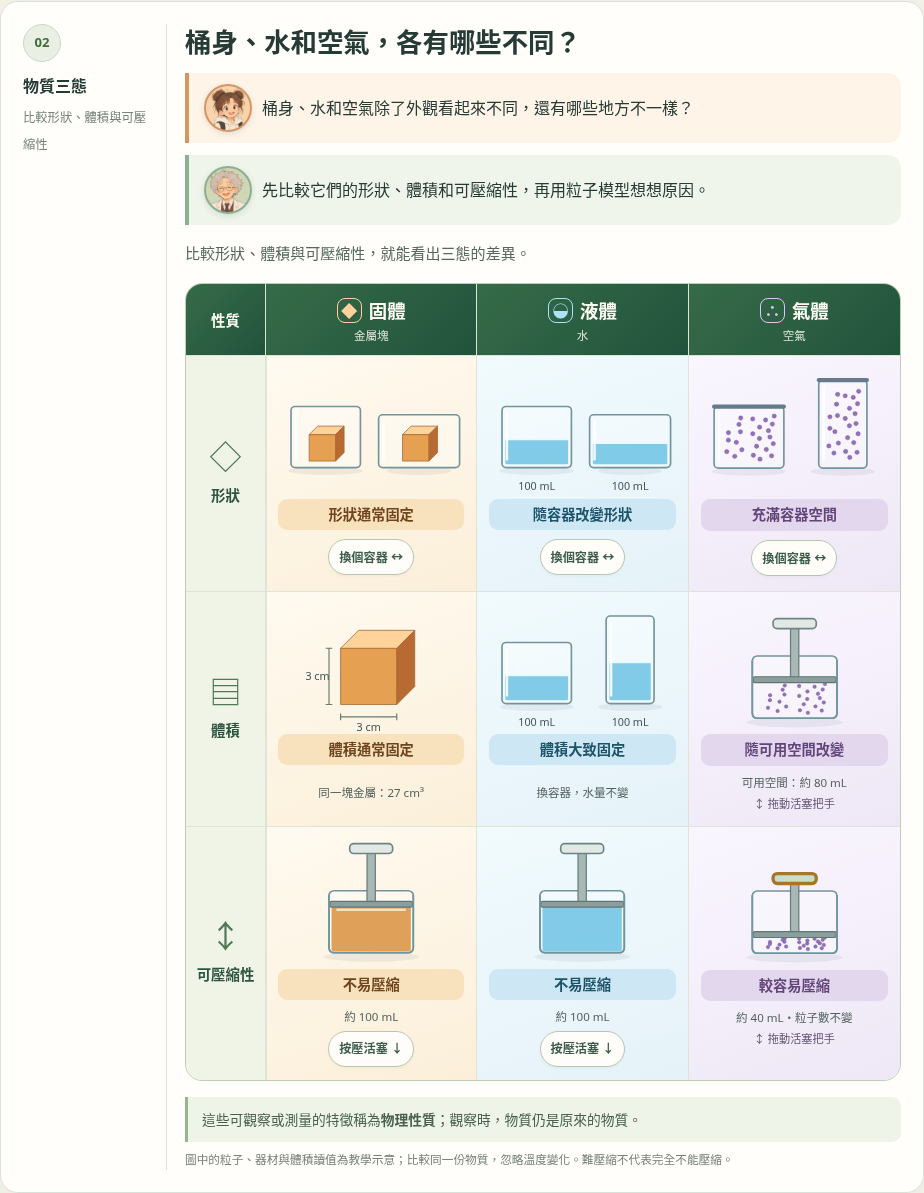
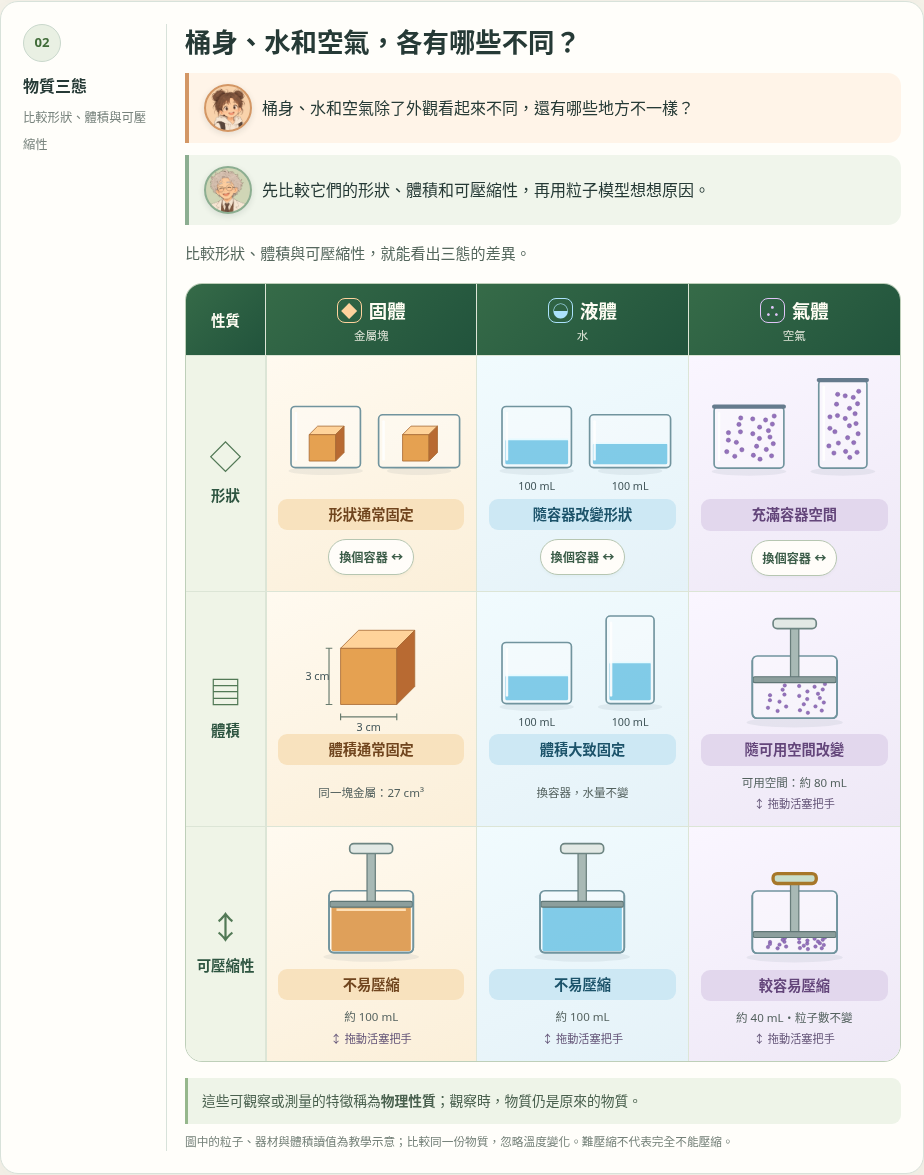
統一2.1三態活塞拖曳並固定固體與液體位置

diff --git a/units/2/parts/2.1/index.html b/units/2/parts/2.1/index.html
@@ -637,7 +637,7 @@
     #s2 button:focus-visible,#s2 a:focus-visible,#s2 input:focus-visible { outline-color:#79b89a; }
   </style>
   <link rel="stylesheet" href="assets/states-table.css?v=20261029">
-  <script src="assets/states-table.js?v=20261029" defer></script>
+  <script src="assets/states-table.js?v=20261029-drag" defer></script>
 </head>
 <body>
   <header class="shell masthead">
@@ -732,7 +732,7 @@
               <table class="states-visual-table">
                 <caption class="visually-hidden">固體、液體與氣體的形狀、體積及可壓縮性比較；所有圖解與結論直接可見。</caption>
                 <colgroup><col class="sv-property-col"><col><col><col></colgroup>
-                <thead><tr><th scope="col">性質</th><th scope="col" class="sv-solid"><span class="sv-state-icon" aria-hidden="true">◆</span><strong>固體</strong><small>金屬塊</small></th><th scope="col" class="sv-liquid"><span class="sv-state-icon" aria-hidden="true">◒</span><strong>液體</strong><small>水</small></th><th scope="col" class="sv-gas"><span class="sv-state-icon" aria-hidden="true">∴</span><strong>氣體</strong><small>空氣</small></th></tr></thead><tbody><tr><th scope="row"><span class="sv-property-icon" aria-hidden="true">◇</span>形狀</th><td class="sv-solid" data-visual-cell="solid.shape"><div class="sv-cell"><svg viewBox="0 0 240 160" role="img" aria-label="同一金屬塊放入兩種容器，形狀與大小保持相同" ><ellipse class="sv-shadow" cx="65" cy="127" rx="45" ry="5"/><ellipse class="sv-shadow" cx="178" cy="127" rx="39" ry="5"/><rect class="sv-glass" x="23.0" y="49" width="84" height="74" rx="5"/><g class="sv-cube"><path d="M45 83l32 0v32h-32z" fill="#e5a151"/><path d="M45 83l10.24 -10.24h32l-10.24 10.24z" fill="#ffd39a"/><path d="M77 83l10.24 -10.24v32l-10.24 10.24z" fill="#b86a32"/></g><path class="sv-highlight" d="M29.0 57v56"/><g data-vessel-changing="solid"><rect class="sv-glass" x="149.0" y="17" width="58" height="106" rx="5"/><g class="sv-cube"><path d="M158 83l32 0v32h-32z" fill="#e5a151"/><path d="M158 83l10.24 -10.24h32l-10.24 10.24z" fill="#ffd39a"/><path d="M190 83l10.24 -10.24v32l-10.24 10.24z" fill="#b86a32"/></g><path class="sv-highlight" d="M155.0 25v88"/></g></svg><strong class="sv-label">形狀通常固定</strong><div class="sv-controls"><button class="sv-action" type="button" data-change-vessel="solid">換個容器 <span aria-hidden="true">↔</span></button></div></div></td><td class="sv-liquid" data-visual-cell="liquid.shape"><div class="sv-cell"><svg viewBox="0 0 240 160" role="img" aria-label="同一份100毫升的水在寬杯水位較低，在窄杯水位較高" ><ellipse class="sv-shadow" cx="65" cy="127" rx="45" ry="5"/><ellipse class="sv-shadow" cx="178" cy="127" rx="39" ry="5"/><rect class="sv-glass" x="23.0" y="49" width="84" height="74" rx="5"/><rect class="sv-water" x="27.0" y="88.73684210526315" width="76" height="30.263157894736842" rx="2"/><path class="sv-surface" d="M27.0 88.73684210526315h76"/><path class="sv-highlight" d="M29.0 57v56"/><g data-vessel-changing="liquid"><rect class="sv-glass" x="149.0" y="17" width="58" height="106" rx="5"/><rect class="sv-water" x="153.0" y="73.0" width="50" height="46.0" rx="2"/><path class="sv-surface" d="M153.0 73.0h50"/><path class="sv-highlight" d="M155.0 25v88"/></g><text x="65" y="150" text-anchor="middle">100 mL</text><text x="178" y="150" text-anchor="middle">100 mL</text></svg><strong class="sv-label">隨容器改變形狀</strong><div class="sv-controls"><button class="sv-action" type="button" data-change-vessel="liquid">換個容器 <span aria-hidden="true">↔</span></button></div></div></td><td class="sv-gas" data-visual-cell="gas.shape"><div class="sv-cell"><svg viewBox="0 0 240 160" role="img" aria-label="同樣數量的氣體粒子分布於兩種密閉容器的整個空間" ><ellipse class="sv-shadow" cx="65" cy="127" rx="45" ry="5"/><ellipse class="sv-shadow" cx="178" cy="127" rx="39" ry="5"/><rect class="sv-glass" x="23.0" y="49" width="84" height="74" rx="5"/><path class="sv-highlight" d="M29.0 57v56"/><path class="sv-seal" d="M23.0 49h84"/><g data-shape-particles><circle class="sv-particle" cx="74.149" cy="96.632" r="2.6"/><circle class="sv-particle" cx="93.154" cy="69.968" r="2.6"/><circle class="sv-particle" cx="38.225" cy="103.118" r="2.6"/><circle class="sv-particle" cx="54.717" cy="79.262" r="2.6"/><circle class="sv-particle" cx="90.235" cy="85.532" r="2.6"/><circle class="sv-particle" cx="69.494" cy="63.758" r="2.6"/><circle class="sv-particle" cx="85.853" cy="100.508" r="2.6"/><circle class="sv-particle" cx="95.352" cy="60.242" r="2.6"/><circle class="sv-particle" cx="94.225" cy="93.536" r="2.6"/><circle class="sv-particle" cx="49.782" cy="91.940" r="2.6"/><circle class="sv-particle" cx="77.579" cy="87.278" r="2.6"/><circle class="sv-particle" cx="40.283" cy="80.294" r="2.6"/><circle class="sv-particle" cx="77.782" cy="73.598" r="2.6"/><circle class="sv-particle" cx="69.564" cy="81.554" r="2.6"/><circle class="sv-particle" cx="56.432" cy="100.862" r="2.6"/><circle class="sv-particle" cx="55.046" cy="62.618" r="2.6"/><circle class="sv-particle" cx="70.285" cy="107.486" r="2.6"/><circle class="sv-particle" cx="40.178" cy="89.282" r="2.6"/><circle class="sv-particle" cx="88.408" cy="77.810" r="2.6"/><circle class="sv-particle" cx="84.985" cy="65.012" r="2.6"/><circle class="sv-particle" cx="52.925" cy="70.346" r="2.6"/><circle class="sv-particle" cx="78.272" cy="112.166" r="2.6"/><circle class="sv-particle" cx="92.181" cy="108.158" r="2.6"/><circle class="sv-particle" cx="47.871" cy="108.704" r="2.6"/></g><g data-vessel-changing="gas"><rect class="sv-glass" x="149.0" y="17" width="58" height="106" rx="5"/><path class="sv-highlight" d="M155.0 25v88"/><path class="sv-seal" d="M149.0 17h58"/><g data-shape-particles><circle class="sv-particle" cx="183.751" cy="86.302" r="2.6"/><circle class="sv-particle" cx="195.697" cy="45.418" r="2.6"/><circle class="sv-particle" cx="161.170" cy="96.248" r="2.6"/><circle class="sv-particle" cx="171.536" cy="59.668" r="2.6"/><circle class="sv-particle" cx="193.862" cy="69.282" r="2.6"/><circle class="sv-particle" cx="180.825" cy="35.896" r="2.6"/><circle class="sv-particle" cx="191.108" cy="92.246" r="2.6"/><circle class="sv-particle" cx="197.078" cy="30.504" r="2.6"/><circle class="sv-particle" cx="196.370" cy="81.555" r="2.6"/><circle class="sv-particle" cx="168.434" cy="79.108" r="2.6"/><circle class="sv-particle" cx="185.907" cy="71.960" r="2.6"/><circle class="sv-particle" cx="162.464" cy="61.251" r="2.6"/><circle class="sv-particle" cx="186.034" cy="50.984" r="2.6"/><circle class="sv-particle" cx="180.869" cy="63.183" r="2.6"/><circle class="sv-particle" cx="172.614" cy="92.788" r="2.6"/><circle class="sv-particle" cx="171.743" cy="34.148" r="2.6"/><circle class="sv-particle" cx="181.322" cy="102.945" r="2.6"/><circle class="sv-particle" cx="162.398" cy="75.032" r="2.6"/><circle class="sv-particle" cx="192.714" cy="57.442" r="2.6"/><circle class="sv-particle" cx="190.562" cy="37.818" r="2.6"/><circle class="sv-particle" cx="170.410" cy="45.997" r="2.6"/><circle class="sv-particle" cx="186.342" cy="110.121" r="2.6"/><circle class="sv-particle" cx="195.085" cy="103.976" r="2.6"/><circle class="sv-particle" cx="167.233" cy="104.813" r="2.6"/></g></g></svg><strong class="sv-label">充滿容器空間</strong><div class="sv-controls"><button class="sv-action" type="button" data-change-vessel="gas">換個容器 <span aria-hidden="true">↔</span></button></div></div></td></tr><tr><th scope="row"><span class="sv-property-icon" aria-hidden="true">▤</span>體積</th><td class="sv-solid" data-visual-cell="solid.volume"><div class="sv-cell"><svg viewBox="0 0 240 160" role="img" aria-label="金屬塊長寬高皆為3公分，體積27立方公分" ><g class="sv-cube"><path d="M83 56l68 0v68h-68z" fill="#e5a151"/><path d="M83 56l21.76 -21.76h68l-21.76 21.76z" fill="#ffd39a"/><path d="M151 56l21.76 -21.76v68l-21.76 21.76z" fill="#b86a32"/></g><path class="sv-dimension" d="M69 56v68m-4-68h8m-8 68h8M83 139h68m-68-4v8m68-8v8"/><text x="55" y="94" text-anchor="middle">3 cm</text><text x="117" y="156" text-anchor="middle">3 cm</text></svg><strong class="sv-label">體積通常固定</strong><div class="sv-controls"><span class="sv-value">同一塊金屬：27 cm³</span></div></div></td><td class="sv-liquid" data-visual-cell="liquid.volume"><div class="sv-cell"><svg viewBox="0 0 240 160" role="img" aria-label="同一份100毫升的水在寬杯水位較低，在窄杯水位較高" ><ellipse class="sv-shadow" cx="65" cy="127" rx="45" ry="5"/><ellipse class="sv-shadow" cx="178" cy="127" rx="39" ry="5"/><rect class="sv-glass" x="23.0" y="49" width="84" height="74" rx="5"/><rect class="sv-water" x="27.0" y="88.73684210526315" width="76" height="30.263157894736842" rx="2"/><path class="sv-surface" d="M27.0 88.73684210526315h76"/><path class="sv-highlight" d="M29.0 57v56"/><g data-vessel-static="liquid"><rect class="sv-glass" x="149.0" y="17" width="58" height="106" rx="5"/><rect class="sv-water" x="153.0" y="73.0" width="50" height="46.0" rx="2"/><path class="sv-surface" d="M153.0 73.0h50"/><path class="sv-highlight" d="M155.0 25v88"/></g><text x="65" y="150" text-anchor="middle">100 mL</text><text x="178" y="150" text-anchor="middle">100 mL</text></svg><strong class="sv-label">體積大致固定</strong><div class="sv-controls"><span class="sv-value">換容器，水量不變</span></div></div></td><td class="sv-gas" data-visual-cell="gas.volume"><div class="sv-cell"><svg viewBox="0 0 240 160" role="img" aria-label="密閉氣缸的活塞可推拉，同一批24個粒子的可用空間隨之改變" data-piston="gas-volume" data-kind="gas" data-mode="volume"><ellipse class="sv-shadow" cx="120" cy="145" rx="58" ry="6"/><rect class="sv-glass" x="69" y="65" width="102" height="75" rx="6"/><g data-piston-fill><g data-piston-particles><circle class="sv-particle" cx="83" cy="111.875" r="2.8"/><circle class="sv-particle" cx="98" cy="111.875" r="2.8"/><circle class="sv-particle" cx="113" cy="111.875" r="2.8"/><circle class="sv-particle" cx="128" cy="111.875" r="2.8"/><circle class="sv-particle" cx="143" cy="111.875" r="2.8"/><circle class="sv-particle" cx="158" cy="111.875" r="2.8"/><circle class="sv-particle" cx="83" cy="117.625" r="2.8"/><circle class="sv-particle" cx="98" cy="117.625" r="2.8"/><circle class="sv-particle" cx="113" cy="117.625" r="2.8"/><circle class="sv-particle" cx="128" cy="117.625" r="2.8"/><circle class="sv-particle" cx="143" cy="117.625" r="2.8"/><circle class="sv-particle" cx="158" cy="117.625" r="2.8"/><circle class="sv-particle" cx="83" cy="123.375" r="2.8"/><circle class="sv-particle" cx="98" cy="123.375" r="2.8"/><circle class="sv-particle" cx="113" cy="123.375" r="2.8"/><circle class="sv-particle" cx="128" cy="123.375" r="2.8"/><circle class="sv-particle" cx="143" cy="123.375" r="2.8"/><circle class="sv-particle" cx="158" cy="123.375" r="2.8"/><circle class="sv-particle" cx="83" cy="129.125" r="2.8"/><circle class="sv-particle" cx="98" cy="129.125" r="2.8"/><circle class="sv-particle" cx="113" cy="129.125" r="2.8"/><circle class="sv-particle" cx="128" cy="129.125" r="2.8"/><circle class="sv-particle" cx="143" cy="129.125" r="2.8"/><circle class="sv-particle" cx="158" cy="129.125" r="2.8"/></g></g><g data-piston-handle role="slider" tabindex="0" aria-label="氣體體積活塞" aria-valuemin="0" aria-valuemax="100" aria-valuenow="33" aria-orientation="vertical" transform="translate(0 100)"><rect class="sv-rod" x="115" y="-66" width="10" height="68" rx="3"/><rect class="sv-grip" x="94" y="-72" width="52" height="12" rx="5"/><rect class="sv-piston-face" x="70" y="-2" width="100" height="7" rx="2"/><rect class="sv-hit" x="78" y="-79" width="84" height="88" fill="transparent"/></g><path class="sv-front" d="M69 70v64q0 6 6 6h90q6 0 6-6V70"/></svg><strong class="sv-label">隨可用空間改變</strong><div class="sv-controls"><output class="sv-value" data-piston-readout="gas-volume">可用空間：約 67 mL</output><span class="sv-gesture">↕ 拖動活塞把手</span></div></div></td></tr><tr><th scope="row"><span class="sv-property-icon" aria-hidden="true">↕</span>可壓縮性</th><td class="sv-solid" data-visual-cell="solid.compress"><div class="sv-cell"><svg viewBox="0 0 240 160" role="img" aria-label="密閉活塞中的金屬塊，一般施力時體積幾乎不變" data-piston="solid-compress" data-kind="solid" data-mode="compress"><ellipse class="sv-shadow" cx="120" cy="145" rx="58" ry="6"/><rect class="sv-glass" x="69" y="65" width="102" height="75" rx="6"/><rect data-piston-fill x="72" y="82" width="96" height="56" rx="2" fill="#dfa05a"/><path d="M78 88h84" stroke="#ffdfb4" stroke-width="3"/><g data-piston-handle role="slider" tabindex="0" aria-label="固體壓縮活塞" aria-valuemin="0" aria-valuemax="100" aria-valuenow="0" aria-orientation="vertical" transform="translate(0 80)"><rect class="sv-rod" x="115" y="-66" width="10" height="68" rx="3"/><rect class="sv-grip" x="94" y="-72" width="52" height="12" rx="5"/><rect class="sv-piston-face" x="70" y="-2" width="100" height="7" rx="2"/><rect class="sv-hit" x="78" y="-79" width="84" height="88" fill="transparent"/></g><path class="sv-front" d="M69 70v64q0 6 6 6h90q6 0 6-6V70"/></svg><strong class="sv-label">不易壓縮</strong><div class="sv-controls"><output class="sv-value" data-piston-readout="solid-compress">約 100 mL</output><button class="sv-action" type="button" data-press="solid" aria-pressed="false">按壓活塞 ↓</button></div></div></td><td class="sv-liquid" data-visual-cell="liquid.compress"><div class="sv-cell"><svg viewBox="0 0 240 160" role="img" aria-label="完全充水且沒有氣泡的密閉活塞，施力後水的體積幾乎不變" data-piston="liquid-compress" data-kind="liquid" data-mode="compress"><ellipse class="sv-shadow" cx="120" cy="145" rx="58" ry="6"/><rect class="sv-glass" x="69" y="65" width="102" height="75" rx="6"/><rect class="sv-water" data-piston-fill x="72" y="82" width="96" height="56" rx="2"/><g data-piston-handle role="slider" tabindex="0" aria-label="液體壓縮活塞" aria-valuemin="0" aria-valuemax="100" aria-valuenow="0" aria-orientation="vertical" transform="translate(0 80)"><rect class="sv-rod" x="115" y="-66" width="10" height="68" rx="3"/><rect class="sv-grip" x="94" y="-72" width="52" height="12" rx="5"/><rect class="sv-piston-face" x="70" y="-2" width="100" height="7" rx="2"/><rect class="sv-hit" x="78" y="-79" width="84" height="88" fill="transparent"/></g><path class="sv-front" d="M69 70v64q0 6 6 6h90q6 0 6-6V70"/></svg><strong class="sv-label">不易壓縮</strong><div class="sv-controls"><output class="sv-value" data-piston-readout="liquid-compress">約 100 mL</output><button class="sv-action" type="button" data-press="liquid" aria-pressed="false">按壓活塞 ↓</button></div></div></td><td class="sv-gas" data-visual-cell="gas.compress"><div class="sv-cell"><svg viewBox="0 0 240 160" role="img" aria-label="密閉氣缸的活塞可推拉，同一批24個粒子的可用空間隨之改變" data-piston="gas-compress" data-kind="gas" data-mode="compress"><ellipse class="sv-shadow" cx="120" cy="145" rx="58" ry="6"/><rect class="sv-glass" x="69" y="65" width="102" height="75" rx="6"/><g data-piston-fill><g data-piston-particles><circle class="sv-particle" cx="83" cy="94.375" r="2.8"/><circle class="sv-particle" cx="98" cy="94.375" r="2.8"/><circle class="sv-particle" cx="113" cy="94.375" r="2.8"/><circle class="sv-particle" cx="128" cy="94.375" r="2.8"/><circle class="sv-particle" cx="143" cy="94.375" r="2.8"/><circle class="sv-particle" cx="158" cy="94.375" r="2.8"/><circle class="sv-particle" cx="83" cy="105.125" r="2.8"/><circle class="sv-particle" cx="98" cy="105.125" r="2.8"/><circle class="sv-particle" cx="113" cy="105.125" r="2.8"/><circle class="sv-particle" cx="128" cy="105.125" r="2.8"/><circle class="sv-particle" cx="143" cy="105.125" r="2.8"/><circle class="sv-particle" cx="158" cy="105.125" r="2.8"/><circle class="sv-particle" cx="83" cy="115.875" r="2.8"/><circle class="sv-particle" cx="98" cy="115.875" r="2.8"/><circle class="sv-particle" cx="113" cy="115.875" r="2.8"/><circle class="sv-particle" cx="128" cy="115.875" r="2.8"/><circle class="sv-particle" cx="143" cy="115.875" r="2.8"/><circle class="sv-particle" cx="158" cy="115.875" r="2.8"/><circle class="sv-particle" cx="83" cy="126.625" r="2.8"/><circle class="sv-particle" cx="98" cy="126.625" r="2.8"/><circle class="sv-particle" cx="113" cy="126.625" r="2.8"/><circle class="sv-particle" cx="128" cy="126.625" r="2.8"/><circle class="sv-particle" cx="143" cy="126.625" r="2.8"/><circle class="sv-particle" cx="158" cy="126.625" r="2.8"/></g></g><g data-piston-handle role="slider" tabindex="0" aria-label="氣體壓縮活塞" aria-valuemin="0" aria-valuemax="100" aria-valuenow="0" aria-orientation="vertical" transform="translate(0 80)"><rect class="sv-rod" x="115" y="-66" width="10" height="68" rx="3"/><rect class="sv-grip" x="94" y="-72" width="52" height="12" rx="5"/><rect class="sv-piston-face" x="70" y="-2" width="100" height="7" rx="2"/><rect class="sv-hit" x="78" y="-79" width="84" height="88" fill="transparent"/></g><path class="sv-front" d="M69 70v64q0 6 6 6h90q6 0 6-6V70"/></svg><strong class="sv-label">較容易壓縮</strong><div class="sv-controls"><output class="sv-value" data-piston-readout="gas-compress">約 100 mL</output><span class="sv-gesture">↕ 拖動活塞把手</span></div></div></td></tr></tbody></table>
+                <thead><tr><th scope="col">性質</th><th scope="col" class="sv-solid"><span class="sv-state-icon" aria-hidden="true">◆</span><strong>固體</strong><small>金屬塊</small></th><th scope="col" class="sv-liquid"><span class="sv-state-icon" aria-hidden="true">◒</span><strong>液體</strong><small>水</small></th><th scope="col" class="sv-gas"><span class="sv-state-icon" aria-hidden="true">∴</span><strong>氣體</strong><small>空氣</small></th></tr></thead><tbody><tr><th scope="row"><span class="sv-property-icon" aria-hidden="true">◇</span>形狀</th><td class="sv-solid" data-visual-cell="solid.shape"><div class="sv-cell"><svg viewBox="0 0 240 160" role="img" aria-label="同一金屬塊放入兩種容器，形狀與大小保持相同" ><ellipse class="sv-shadow" cx="65" cy="127" rx="45" ry="5"/><ellipse class="sv-shadow" cx="178" cy="127" rx="39" ry="5"/><rect class="sv-glass" x="23.0" y="49" width="84" height="74" rx="5"/><g class="sv-cube"><path d="M45 83l32 0v32h-32z" fill="#e5a151"/><path d="M45 83l10.24 -10.24h32l-10.24 10.24z" fill="#ffd39a"/><path d="M77 83l10.24 -10.24v32l-10.24 10.24z" fill="#b86a32"/></g><path class="sv-highlight" d="M29.0 57v56"/><g data-vessel-changing="solid"><rect class="sv-glass" x="149.0" y="17" width="58" height="106" rx="5"/><g class="sv-cube"><path d="M158 83l32 0v32h-32z" fill="#e5a151"/><path d="M158 83l10.24 -10.24h32l-10.24 10.24z" fill="#ffd39a"/><path d="M190 83l10.24 -10.24v32l-10.24 10.24z" fill="#b86a32"/></g><path class="sv-highlight" d="M155.0 25v88"/></g></svg><strong class="sv-label">形狀通常固定</strong><div class="sv-controls"><button class="sv-action" type="button" data-change-vessel="solid">換個容器 <span aria-hidden="true">↔</span></button></div></div></td><td class="sv-liquid" data-visual-cell="liquid.shape"><div class="sv-cell"><svg viewBox="0 0 240 160" role="img" aria-label="同一份100毫升的水在寬杯水位較低，在窄杯水位較高" ><ellipse class="sv-shadow" cx="65" cy="127" rx="45" ry="5"/><ellipse class="sv-shadow" cx="178" cy="127" rx="39" ry="5"/><rect class="sv-glass" x="23.0" y="49" width="84" height="74" rx="5"/><rect class="sv-water" x="27.0" y="88.73684210526315" width="76" height="30.263157894736842" rx="2"/><path class="sv-surface" d="M27.0 88.73684210526315h76"/><path class="sv-highlight" d="M29.0 57v56"/><g data-vessel-changing="liquid"><rect class="sv-glass" x="149.0" y="17" width="58" height="106" rx="5"/><rect class="sv-water" x="153.0" y="73.0" width="50" height="46.0" rx="2"/><path class="sv-surface" d="M153.0 73.0h50"/><path class="sv-highlight" d="M155.0 25v88"/></g><text x="65" y="150" text-anchor="middle">100 mL</text><text x="178" y="150" text-anchor="middle">100 mL</text></svg><strong class="sv-label">隨容器改變形狀</strong><div class="sv-controls"><button class="sv-action" type="button" data-change-vessel="liquid">換個容器 <span aria-hidden="true">↔</span></button></div></div></td><td class="sv-gas" data-visual-cell="gas.shape"><div class="sv-cell"><svg viewBox="0 0 240 160" role="img" aria-label="同樣數量的氣體粒子分布於兩種密閉容器的整個空間" ><ellipse class="sv-shadow" cx="65" cy="127" rx="45" ry="5"/><ellipse class="sv-shadow" cx="178" cy="127" rx="39" ry="5"/><rect class="sv-glass" x="23.0" y="49" width="84" height="74" rx="5"/><path class="sv-highlight" d="M29.0 57v56"/><path class="sv-seal" d="M23.0 49h84"/><g data-shape-particles><circle class="sv-particle" cx="74.149" cy="96.632" r="2.6"/><circle class="sv-particle" cx="93.154" cy="69.968" r="2.6"/><circle class="sv-particle" cx="38.225" cy="103.118" r="2.6"/><circle class="sv-particle" cx="54.717" cy="79.262" r="2.6"/><circle class="sv-particle" cx="90.235" cy="85.532" r="2.6"/><circle class="sv-particle" cx="69.494" cy="63.758" r="2.6"/><circle class="sv-particle" cx="85.853" cy="100.508" r="2.6"/><circle class="sv-particle" cx="95.352" cy="60.242" r="2.6"/><circle class="sv-particle" cx="94.225" cy="93.536" r="2.6"/><circle class="sv-particle" cx="49.782" cy="91.940" r="2.6"/><circle class="sv-particle" cx="77.579" cy="87.278" r="2.6"/><circle class="sv-particle" cx="40.283" cy="80.294" r="2.6"/><circle class="sv-particle" cx="77.782" cy="73.598" r="2.6"/><circle class="sv-particle" cx="69.564" cy="81.554" r="2.6"/><circle class="sv-particle" cx="56.432" cy="100.862" r="2.6"/><circle class="sv-particle" cx="55.046" cy="62.618" r="2.6"/><circle class="sv-particle" cx="70.285" cy="107.486" r="2.6"/><circle class="sv-particle" cx="40.178" cy="89.282" r="2.6"/><circle class="sv-particle" cx="88.408" cy="77.810" r="2.6"/><circle class="sv-particle" cx="84.985" cy="65.012" r="2.6"/><circle class="sv-particle" cx="52.925" cy="70.346" r="2.6"/><circle class="sv-particle" cx="78.272" cy="112.166" r="2.6"/><circle class="sv-particle" cx="92.181" cy="108.158" r="2.6"/><circle class="sv-particle" cx="47.871" cy="108.704" r="2.6"/></g><g data-vessel-changing="gas"><rect class="sv-glass" x="149.0" y="17" width="58" height="106" rx="5"/><path class="sv-highlight" d="M155.0 25v88"/><path class="sv-seal" d="M149.0 17h58"/><g data-shape-particles><circle class="sv-particle" cx="183.751" cy="86.302" r="2.6"/><circle class="sv-particle" cx="195.697" cy="45.418" r="2.6"/><circle class="sv-particle" cx="161.170" cy="96.248" r="2.6"/><circle class="sv-particle" cx="171.536" cy="59.668" r="2.6"/><circle class="sv-particle" cx="193.862" cy="69.282" r="2.6"/><circle class="sv-particle" cx="180.825" cy="35.896" r="2.6"/><circle class="sv-particle" cx="191.108" cy="92.246" r="2.6"/><circle class="sv-particle" cx="197.078" cy="30.504" r="2.6"/><circle class="sv-particle" cx="196.370" cy="81.555" r="2.6"/><circle class="sv-particle" cx="168.434" cy="79.108" r="2.6"/><circle class="sv-particle" cx="185.907" cy="71.960" r="2.6"/><circle class="sv-particle" cx="162.464" cy="61.251" r="2.6"/><circle class="sv-particle" cx="186.034" cy="50.984" r="2.6"/><circle class="sv-particle" cx="180.869" cy="63.183" r="2.6"/><circle class="sv-particle" cx="172.614" cy="92.788" r="2.6"/><circle class="sv-particle" cx="171.743" cy="34.148" r="2.6"/><circle class="sv-particle" cx="181.322" cy="102.945" r="2.6"/><circle class="sv-particle" cx="162.398" cy="75.032" r="2.6"/><circle class="sv-particle" cx="192.714" cy="57.442" r="2.6"/><circle class="sv-particle" cx="190.562" cy="37.818" r="2.6"/><circle class="sv-particle" cx="170.410" cy="45.997" r="2.6"/><circle class="sv-particle" cx="186.342" cy="110.121" r="2.6"/><circle class="sv-particle" cx="195.085" cy="103.976" r="2.6"/><circle class="sv-particle" cx="167.233" cy="104.813" r="2.6"/></g></g></svg><strong class="sv-label">充滿容器空間</strong><div class="sv-controls"><button class="sv-action" type="button" data-change-vessel="gas">換個容器 <span aria-hidden="true">↔</span></button></div></div></td></tr><tr><th scope="row"><span class="sv-property-icon" aria-hidden="true">▤</span>體積</th><td class="sv-solid" data-visual-cell="solid.volume"><div class="sv-cell"><svg viewBox="0 0 240 160" role="img" aria-label="金屬塊長寬高皆為3公分，體積27立方公分" ><g class="sv-cube"><path d="M83 56l68 0v68h-68z" fill="#e5a151"/><path d="M83 56l21.76 -21.76h68l-21.76 21.76z" fill="#ffd39a"/><path d="M151 56l21.76 -21.76v68l-21.76 21.76z" fill="#b86a32"/></g><path class="sv-dimension" d="M69 56v68m-4-68h8m-8 68h8M83 139h68m-68-4v8m68-8v8"/><text x="55" y="94" text-anchor="middle">3 cm</text><text x="117" y="156" text-anchor="middle">3 cm</text></svg><strong class="sv-label">體積通常固定</strong><div class="sv-controls"><span class="sv-value">同一塊金屬：27 cm³</span></div></div></td><td class="sv-liquid" data-visual-cell="liquid.volume"><div class="sv-cell"><svg viewBox="0 0 240 160" role="img" aria-label="同一份100毫升的水在寬杯水位較低，在窄杯水位較高" ><ellipse class="sv-shadow" cx="65" cy="127" rx="45" ry="5"/><ellipse class="sv-shadow" cx="178" cy="127" rx="39" ry="5"/><rect class="sv-glass" x="23.0" y="49" width="84" height="74" rx="5"/><rect class="sv-water" x="27.0" y="88.73684210526315" width="76" height="30.263157894736842" rx="2"/><path class="sv-surface" d="M27.0 88.73684210526315h76"/><path class="sv-highlight" d="M29.0 57v56"/><g data-vessel-static="liquid"><rect class="sv-glass" x="149.0" y="17" width="58" height="106" rx="5"/><rect class="sv-water" x="153.0" y="73.0" width="50" height="46.0" rx="2"/><path class="sv-surface" d="M153.0 73.0h50"/><path class="sv-highlight" d="M155.0 25v88"/></g><text x="65" y="150" text-anchor="middle">100 mL</text><text x="178" y="150" text-anchor="middle">100 mL</text></svg><strong class="sv-label">體積大致固定</strong><div class="sv-controls"><span class="sv-value">換容器，水量不變</span></div></div></td><td class="sv-gas" data-visual-cell="gas.volume"><div class="sv-cell"><svg viewBox="0 0 240 160" role="img" aria-label="密閉氣缸的活塞可推拉，同一批24個粒子的可用空間隨之改變" data-piston="gas-volume" data-kind="gas" data-mode="volume"><ellipse class="sv-shadow" cx="120" cy="145" rx="58" ry="6"/><rect class="sv-glass" x="69" y="65" width="102" height="75" rx="6"/><g data-piston-fill><g data-piston-particles><circle class="sv-particle" cx="83" cy="111.875" r="2.8"/><circle class="sv-particle" cx="98" cy="111.875" r="2.8"/><circle class="sv-particle" cx="113" cy="111.875" r="2.8"/><circle class="sv-particle" cx="128" cy="111.875" r="2.8"/><circle class="sv-particle" cx="143" cy="111.875" r="2.8"/><circle class="sv-particle" cx="158" cy="111.875" r="2.8"/><circle class="sv-particle" cx="83" cy="117.625" r="2.8"/><circle class="sv-particle" cx="98" cy="117.625" r="2.8"/><circle class="sv-particle" cx="113" cy="117.625" r="2.8"/><circle class="sv-particle" cx="128" cy="117.625" r="2.8"/><circle class="sv-particle" cx="143" cy="117.625" r="2.8"/><circle class="sv-particle" cx="158" cy="117.625" r="2.8"/><circle class="sv-particle" cx="83" cy="123.375" r="2.8"/><circle class="sv-particle" cx="98" cy="123.375" r="2.8"/><circle class="sv-particle" cx="113" cy="123.375" r="2.8"/><circle class="sv-particle" cx="128" cy="123.375" r="2.8"/><circle class="sv-particle" cx="143" cy="123.375" r="2.8"/><circle class="sv-particle" cx="158" cy="123.375" r="2.8"/><circle class="sv-particle" cx="83" cy="129.125" r="2.8"/><circle class="sv-particle" cx="98" cy="129.125" r="2.8"/><circle class="sv-particle" cx="113" cy="129.125" r="2.8"/><circle class="sv-particle" cx="128" cy="129.125" r="2.8"/><circle class="sv-particle" cx="143" cy="129.125" r="2.8"/><circle class="sv-particle" cx="158" cy="129.125" r="2.8"/></g></g><g data-piston-handle role="slider" tabindex="0" aria-label="氣體體積活塞" aria-valuemin="0" aria-valuemax="100" aria-valuenow="33" aria-orientation="vertical" transform="translate(0 100)"><rect class="sv-rod" x="115" y="-66" width="10" height="68" rx="3"/><rect class="sv-grip" x="94" y="-72" width="52" height="12" rx="5"/><rect class="sv-piston-face" x="70" y="-2" width="100" height="7" rx="2"/><rect class="sv-hit" x="78" y="-79" width="84" height="88" fill="transparent"/></g><path class="sv-front" d="M69 70v64q0 6 6 6h90q6 0 6-6V70"/></svg><strong class="sv-label">隨可用空間改變</strong><div class="sv-controls"><output class="sv-value" data-piston-readout="gas-volume">可用空間：約 67 mL</output><span class="sv-gesture">↕ 拖動活塞把手</span></div></div></td></tr><tr><th scope="row"><span class="sv-property-icon" aria-hidden="true">↕</span>可壓縮性</th><td class="sv-solid" data-visual-cell="solid.compress"><div class="sv-cell"><svg viewBox="0 0 240 160" role="img" aria-label="密閉活塞中的金屬塊，一般施力時體積幾乎不變" data-piston="solid-compress" data-kind="solid" data-mode="compress"><ellipse class="sv-shadow" cx="120" cy="145" rx="58" ry="6"/><rect class="sv-glass" x="69" y="65" width="102" height="75" rx="6"/><rect data-piston-fill x="72" y="82" width="96" height="56" rx="2" fill="#dfa05a"/><path d="M78 88h84" stroke="#ffdfb4" stroke-width="3"/><g data-piston-handle role="slider" tabindex="0" aria-label="固體壓縮活塞" aria-valuemin="0" aria-valuemax="100" aria-valuenow="0" aria-orientation="vertical" transform="translate(0 80)"><rect class="sv-rod" x="115" y="-66" width="10" height="68" rx="3"/><rect class="sv-grip" x="94" y="-72" width="52" height="12" rx="5"/><rect class="sv-piston-face" x="70" y="-2" width="100" height="7" rx="2"/><rect class="sv-hit" x="78" y="-79" width="84" height="88" fill="transparent"/></g><path class="sv-front" d="M69 70v64q0 6 6 6h90q6 0 6-6V70"/></svg><strong class="sv-label">不易壓縮</strong><div class="sv-controls"><output class="sv-value" data-piston-readout="solid-compress">約 100 mL</output><span class="sv-gesture">↕ 拖動活塞把手</span></div></div></td><td class="sv-liquid" data-visual-cell="liquid.compress"><div class="sv-cell"><svg viewBox="0 0 240 160" role="img" aria-label="完全充水且沒有氣泡的密閉活塞，施力後水的體積幾乎不變" data-piston="liquid-compress" data-kind="liquid" data-mode="compress"><ellipse class="sv-shadow" cx="120" cy="145" rx="58" ry="6"/><rect class="sv-glass" x="69" y="65" width="102" height="75" rx="6"/><rect class="sv-water" data-piston-fill x="72" y="82" width="96" height="56" rx="2"/><g data-piston-handle role="slider" tabindex="0" aria-label="液體壓縮活塞" aria-valuemin="0" aria-valuemax="100" aria-valuenow="0" aria-orientation="vertical" transform="translate(0 80)"><rect class="sv-rod" x="115" y="-66" width="10" height="68" rx="3"/><rect class="sv-grip" x="94" y="-72" width="52" height="12" rx="5"/><rect class="sv-piston-face" x="70" y="-2" width="100" height="7" rx="2"/><rect class="sv-hit" x="78" y="-79" width="84" height="88" fill="transparent"/></g><path class="sv-front" d="M69 70v64q0 6 6 6h90q6 0 6-6V70"/></svg><strong class="sv-label">不易壓縮</strong><div class="sv-controls"><output class="sv-value" data-piston-readout="liquid-compress">約 100 mL</output><span class="sv-gesture">↕ 拖動活塞把手</span></div></div></td><td class="sv-gas" data-visual-cell="gas.compress"><div class="sv-cell"><svg viewBox="0 0 240 160" role="img" aria-label="密閉氣缸的活塞可推拉，同一批24個粒子的可用空間隨之改變" data-piston="gas-compress" data-kind="gas" data-mode="compress"><ellipse class="sv-shadow" cx="120" cy="145" rx="58" ry="6"/><rect class="sv-glass" x="69" y="65" width="102" height="75" rx="6"/><g data-piston-fill><g data-piston-particles><circle class="sv-particle" cx="83" cy="94.375" r="2.8"/><circle class="sv-particle" cx="98" cy="94.375" r="2.8"/><circle class="sv-particle" cx="113" cy="94.375" r="2.8"/><circle class="sv-particle" cx="128" cy="94.375" r="2.8"/><circle class="sv-particle" cx="143" cy="94.375" r="2.8"/><circle class="sv-particle" cx="158" cy="94.375" r="2.8"/><circle class="sv-particle" cx="83" cy="105.125" r="2.8"/><circle class="sv-particle" cx="98" cy="105.125" r="2.8"/><circle class="sv-particle" cx="113" cy="105.125" r="2.8"/><circle class="sv-particle" cx="128" cy="105.125" r="2.8"/><circle class="sv-particle" cx="143" cy="105.125" r="2.8"/><circle class="sv-particle" cx="158" cy="105.125" r="2.8"/><circle class="sv-particle" cx="83" cy="115.875" r="2.8"/><circle class="sv-particle" cx="98" cy="115.875" r="2.8"/><circle class="sv-particle" cx="113" cy="115.875" r="2.8"/><circle class="sv-particle" cx="128" cy="115.875" r="2.8"/><circle class="sv-particle" cx="143" cy="115.875" r="2.8"/><circle class="sv-particle" cx="158" cy="115.875" r="2.8"/><circle class="sv-particle" cx="83" cy="126.625" r="2.8"/><circle class="sv-particle" cx="98" cy="126.625" r="2.8"/><circle class="sv-particle" cx="113" cy="126.625" r="2.8"/><circle class="sv-particle" cx="128" cy="126.625" r="2.8"/><circle class="sv-particle" cx="143" cy="126.625" r="2.8"/><circle class="sv-particle" cx="158" cy="126.625" r="2.8"/></g></g><g data-piston-handle role="slider" tabindex="0" aria-label="氣體壓縮活塞" aria-valuemin="0" aria-valuemax="100" aria-valuenow="0" aria-orientation="vertical" transform="translate(0 80)"><rect class="sv-rod" x="115" y="-66" width="10" height="68" rx="3"/><rect class="sv-grip" x="94" y="-72" width="52" height="12" rx="5"/><rect class="sv-piston-face" x="70" y="-2" width="100" height="7" rx="2"/><rect class="sv-hit" x="78" y="-79" width="84" height="88" fill="transparent"/></g><path class="sv-front" d="M69 70v64q0 6 6 6h90q6 0 6-6V70"/></svg><strong class="sv-label">較容易壓縮</strong><div class="sv-controls"><output class="sv-value" data-piston-readout="gas-compress">約 100 mL</output><span class="sv-gesture">↕ 拖動活塞把手</span></div></div></td></tr></tbody></table>
             </div>
             <p class="sv-note">這些可觀察或測量的特徵稱為<strong>物理性質</strong>；觀察時，物質仍是原來的物質。</p>
             <p class="sv-model-note">圖中的粒子、器材與體積讀值為教學示意；比較同一份物質，忽略溫度變化。難壓縮不代表完全不能壓縮。</p>

diff --git a/units/2/parts/2.1/assets/states-table.js b/units/2/parts/2.1/assets/states-table.js
@@ -50,14 +50,14 @@
     let compression = mode === 'volume' ? 100 / 3 : 0;
     function update(value) {
       compression = Math.max(0, Math.min(100, value));
-      // Solid/liquid displacement is exaggerated slightly to be visible, and stays <2%.
-      const y = 80 + compression / 100 * (kind === 'gas' ? 36 : .7);
+      // Ordinary pressure: solid/liquid movement is too small to show at this scale.
+      const y = 80 + compression / 100 * (kind === 'gas' ? 36 : 0);
       const volume = (140 - y) / 60 * 100;
       handle.setAttribute('transform', `translate(0 ${y})`);
-      handle.setAttribute('aria-valuenow', String(Math.round(compression)));
+      handle.setAttribute('aria-valuenow', String(kind === 'gas' ? Math.round(compression) : 0));
       handle.setAttribute('aria-valuetext', kind === 'gas' ? `可用空間約 ${Math.round(volume)} 毫升` : '施力時體積幾乎不變');
       svg.dataset.volume = String(volume);
-      svg.dataset.compression = String(compression);
+      svg.dataset.compression = String(kind === 'gas' ? compression : 0);
       if (kind === 'gas') {
         dots.forEach((dot, i) => {
           dot.setAttribute('cx', 78 + gasPositions[i][0] * 84);
@@ -70,16 +70,12 @@
         fill.setAttribute('height', 138 - y - 4.5);
         output.textContent = compression > 0 ? '約 100 mL・幾乎不變' : '約 100 mL';
       }
-      const button = section.querySelector(`[data-press="${kind}"]`);
-      if (mode === 'compress' && button) {
-        button.setAttribute('aria-pressed', String(compression > 0));
-        button.textContent = compression > 0 ? '放開活塞 ↑' : '按壓活塞 ↓';
-      }
+
     }
     update(compression);
     let pointer = null, startY = 0, startCompression = 0;
     handle.addEventListener('pointerdown', event => {
-      if (event.button !== 0) return;
+      if (event.button !== 0 || pointer !== null) return;
       pointer = event.pointerId;
       startY = event.clientY;
       startCompression = compression;
@@ -105,8 +101,6 @@
       if (!(event.key in actions)) return;
       event.preventDefault(); update(actions[event.key]);
     });
-    if (mode === 'compress' && kind !== 'gas') {
-      section.querySelector(`[data-press="${kind}"]`).addEventListener('click', () => update(compression > 0 ? 0 : 100));
-    }
+
   });
 })();

diff --git a/docs/reviews/unit-2.1-states-table/review.md b/docs/reviews/unit-2.1-states-table/review.md
@@ -8,7 +8,7 @@
 
 - 形狀：固體、液體與氣體皆可更換右側容器；左側保留參照。金屬塊幾何不變；水的量維持 100 mL，以相同剖面填充面積表示等量，容器變窄時水位升高；氣體的不規則粒子示意分布在密閉容器內。
 - 體積：固體以同一金屬塊與尺寸線呈現；液體兩杯均直接標示 100 mL；氣體可上下推拉活塞，讀值跟隨可用空間改變。
-- 可壓縮性：三態使用同一類密閉活塞示意。固體與完全充水、無氣泡的液體在施力後只作極小位移，標示體積幾乎不變；氣體則可明顯壓縮。氣體的 24 個示意粒子在換容器、改變體積或壓縮時數量保持相同。
+- 可壓縮性：三態使用同一類密閉活塞示意。三格均直接拖曳活塞把手；固體與完全充水、無氣泡的液體在此示意尺度下保持原位，拖曳時標示體積幾乎不變，氣體則可明顯壓縮。固體與液體的按壓／放開按鈕已依使用者要求移除。氣體的 24 個示意粒子在換容器、改變體積或壓縮時數量保持相同。
 - 標示物理性質及「觀察時仍是原來的物質」。器材、粒子和體積數值均為教學示意，並非真實力—體積校正；難壓縮不表示完全不能壓縮。
 - 正式實作是原生 HTML 表格、SVG、CSS、JavaScript，沒有新增套件。窄螢幕僅表格內可橫向捲動，列標題固定，並提供滑動提示；鍵盤可操作換容器按鈕及活塞（方向鍵、Home、End），活塞亦支援滑鼠與觸控。
 
@@ -20,10 +20,16 @@
 CHROMIUM_PATH=/usr/bin/chromium node --test tests/unit-2.1-states-table.test.cjs
 ```
 
-8 組瀏覽器子測試與外層測試，共 9 項通過、0 項失敗、0 項跳過。涵蓋初始九格直接可見、固體外形不變、水量／剖面面積守恆、氣體粒子數與邊界、一般施力及放開的重複操作、滑鼠／鍵盤壓縮、320／390／768／1024／1440px 版面、真實觸控與減少動畫設定。初次檢查發現測試的握把選擇器同時匹配兩個既有按鈕，已明確改用有名稱的握把按鈕後重跑通過；未改動第一區操作。
+8 組瀏覽器子測試與外層測試，共 9 項通過、0 項失敗、0 項跳過。涵蓋初始九格直接可見、固體外形不變、水量／剖面面積守恆、氣體粒子數與邊界、固體與液體重複拖曳時位置、填充幾何與體積不變、滑鼠／鍵盤壓縮、320／390／768／1024／1440px 版面、真實觸控與減少動畫設定。初次檢查發現測試的握把選擇器同時匹配兩個既有按鈕，已明確改用有名稱的握把按鈕後重跑通過；未改動第一區操作。
 
 另以 DOM 比對本次修改前後所有其他教學區塊完全相同，實際操作第一區握把並確認第三區粒子模型仍初始化；瀏覽器無 JavaScript 錯誤或 HTTP 失敗。已查看 `desktop.png`、`mobile.png` 與 `gas-compressed.png`，確認標籤、圖解及控制未互相遮擋，手機無整頁水平溢出。
 
 本次為第二區的製作與檢查，待使用者檢視，不代表整個 Part 或單元已驗收。
 
 公開區塊：<https://billlaitrade.github.io/k12-learning-demos/units/2/parts/2.1/#s2>。
+
+## 三態統一拖曳（2026-10-29）
+
+使用者要求三格皆以拖曳把手操作，固體、液體拖了也不移動。已移除兩顆按壓／放開按鈕與其事件，將固體、液體原有極小示意位移改為零，保留「不易壓縮」及「幾乎不變」文字，避免宣稱絕對無法壓縮。三格均保留滑鼠、觸控、鍵盤輸入及操作回饋；體積比較列的氣體活塞維持原有操作。
+
+更新後 8 組子測試與外層共 9 項通過，0 失敗、0 跳過。實際以滑鼠往返拖曳固體／液體把手並在按住期間比對活塞位置、填充幾何及體積，均不變；手機三態皆實際發送觸控拖曳，僅氣體體積縮小。另重驗鍵盤、三態比較、窄螢幕與其他教學區塊。已更新並檢視桌機截圖，三格均顯示「拖動活塞把手」，未出現按壓按鈕。

diff --git a/tests/README.md b/tests/README.md
@@ -295,4 +295,4 @@ node --test --test-concurrency=1 tests/unit-4.2-filtration.test.cjs tests/unit-4
 CHROMIUM_PATH=/usr/bin/chromium node --test tests/unit-2.1-states-table.test.cjs
 ```
 
-測試自行啟停 Python 靜態伺服器與 Chromium。檢查九格圖解預設可見、固體外形、液體等量、氣體粒子數與邊界、格內活塞的滑鼠／鍵盤／觸控、按壓與放開、其他教學區塊保留、五種螢幕寬度及減少動畫設定。8 組子測試，連同外層共 9 項；`STATES_CAPTURE_DIR` 可指定截圖目錄。審閱紀錄見 `docs/reviews/unit-2.1-states-table/review.md`。
+測試自行啟停 Python 靜態伺服器與 Chromium。檢查九格圖解預設可見、固體外形、液體等量、氣體粒子數與邊界、格內活塞的滑鼠／鍵盤／觸控、固體與液體拖曳位置不變而氣體可壓縮、其他教學區塊保留、五種螢幕寬度及減少動畫設定。8 組子測試，連同外層共 9 項；`STATES_CAPTURE_DIR` 可指定截圖目錄。審閱紀錄見 `docs/reviews/unit-2.1-states-table/review.md`。
